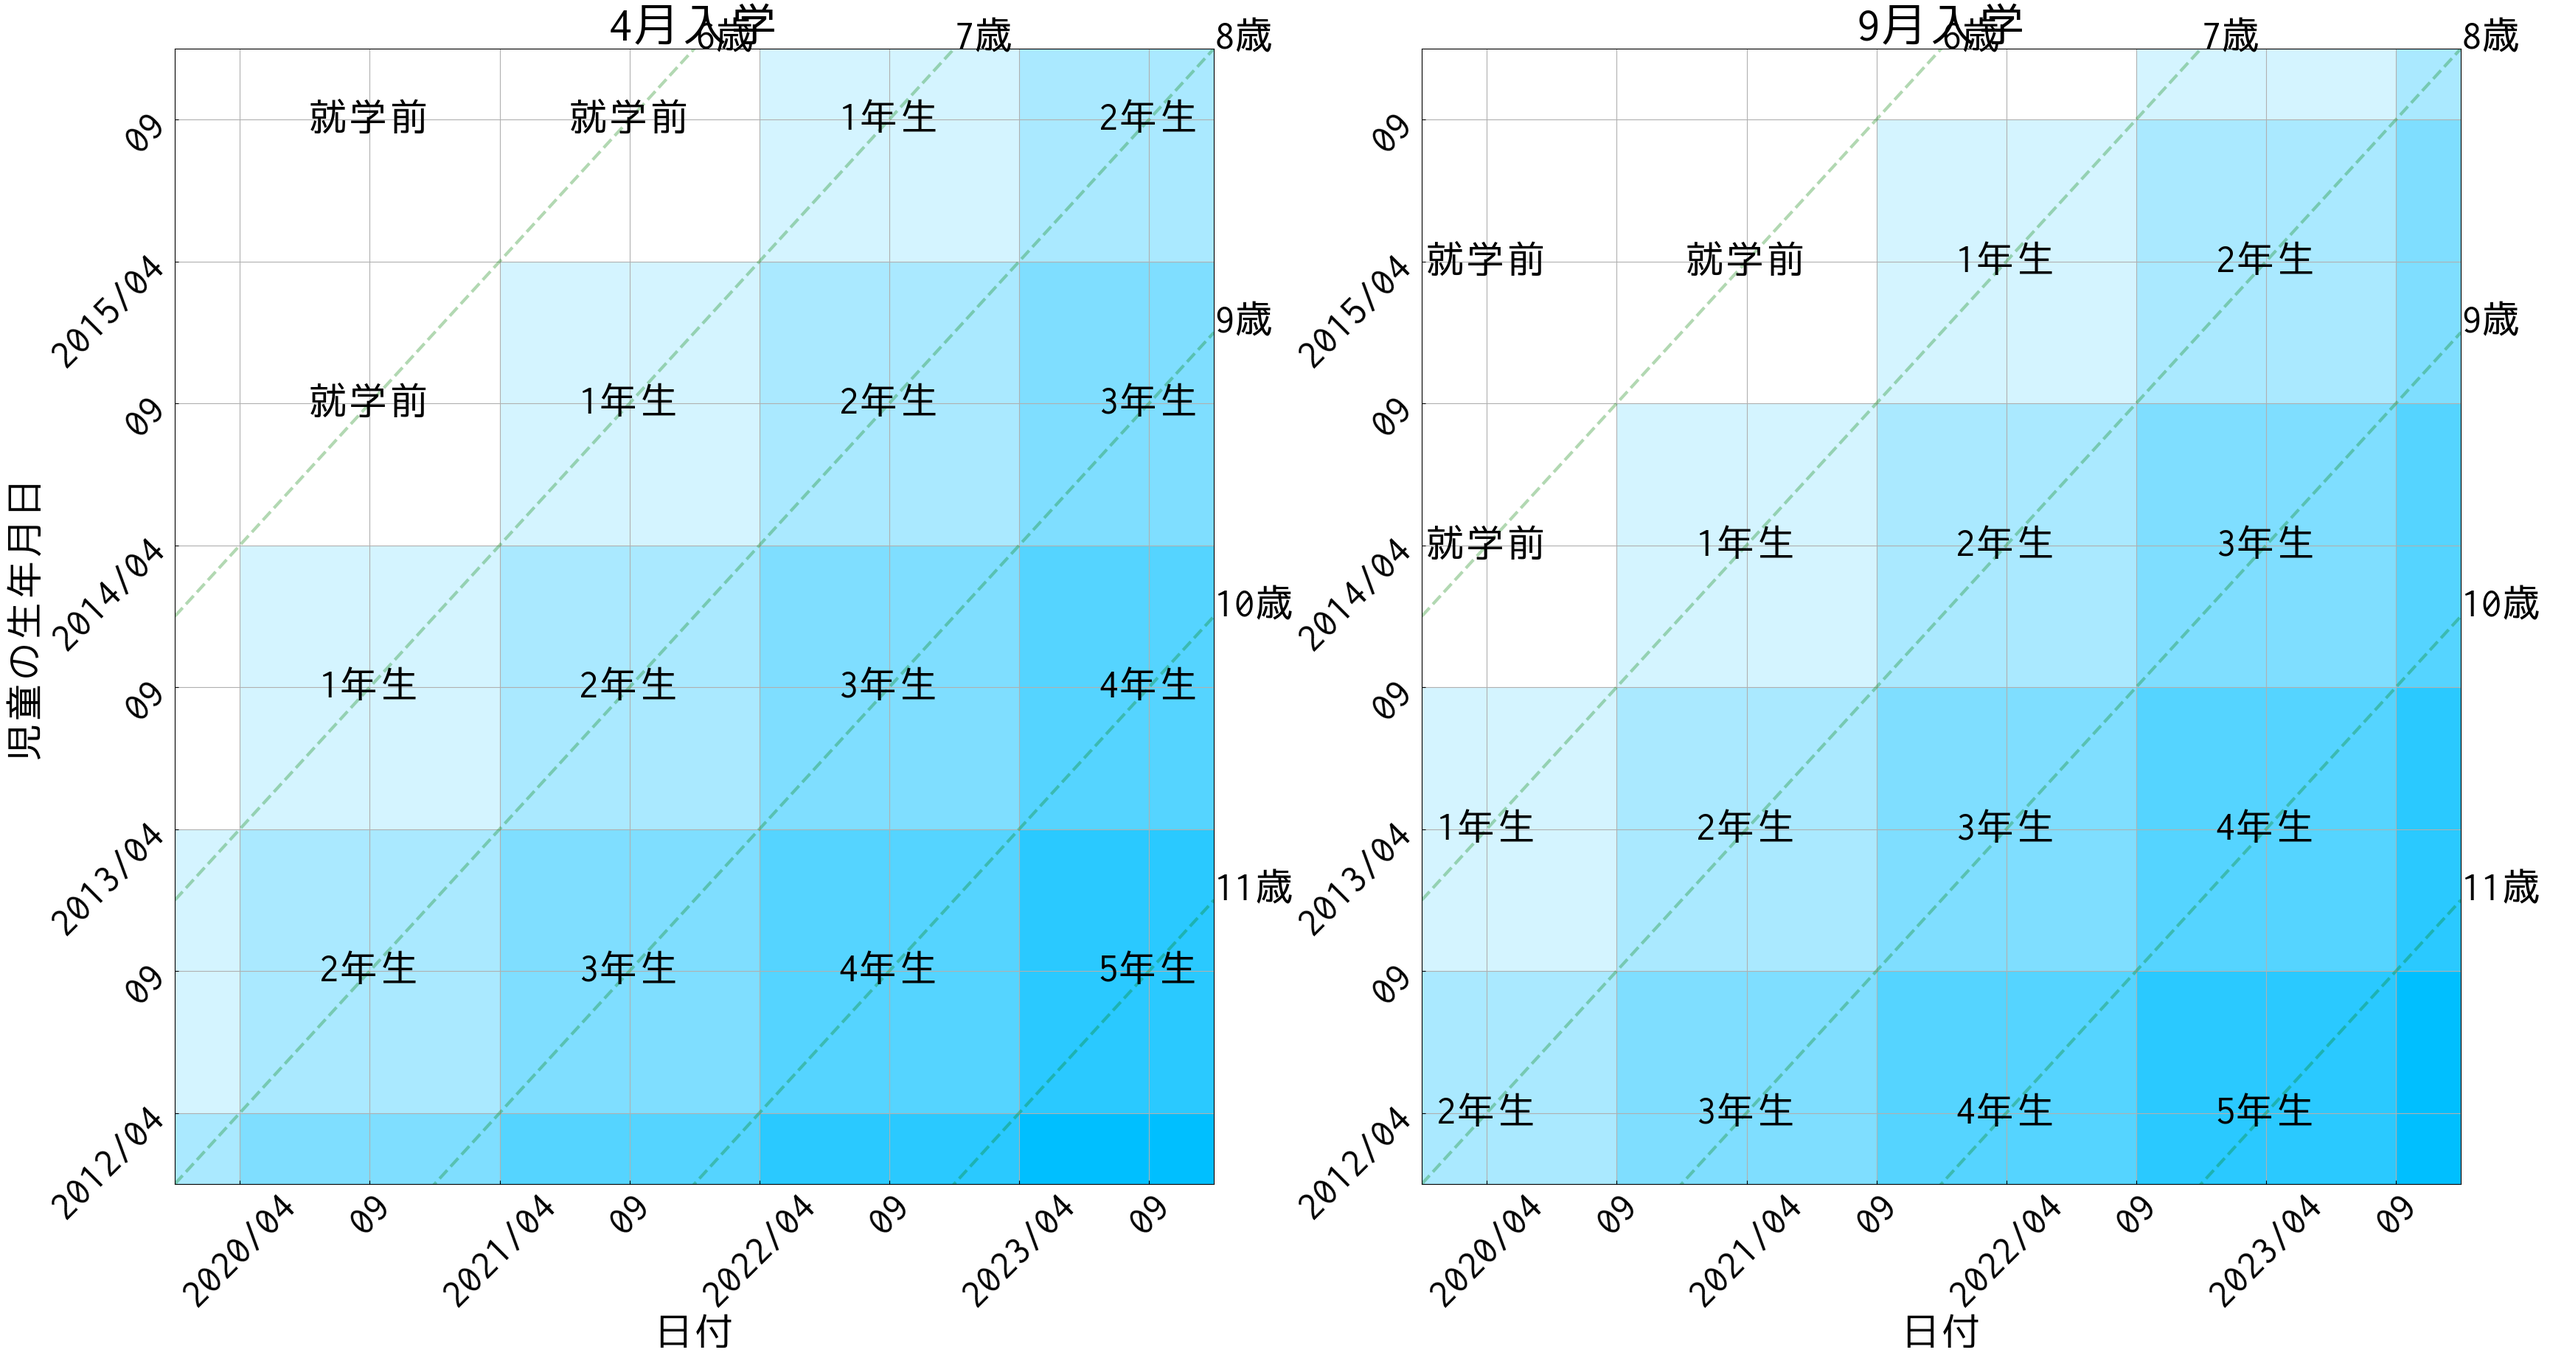
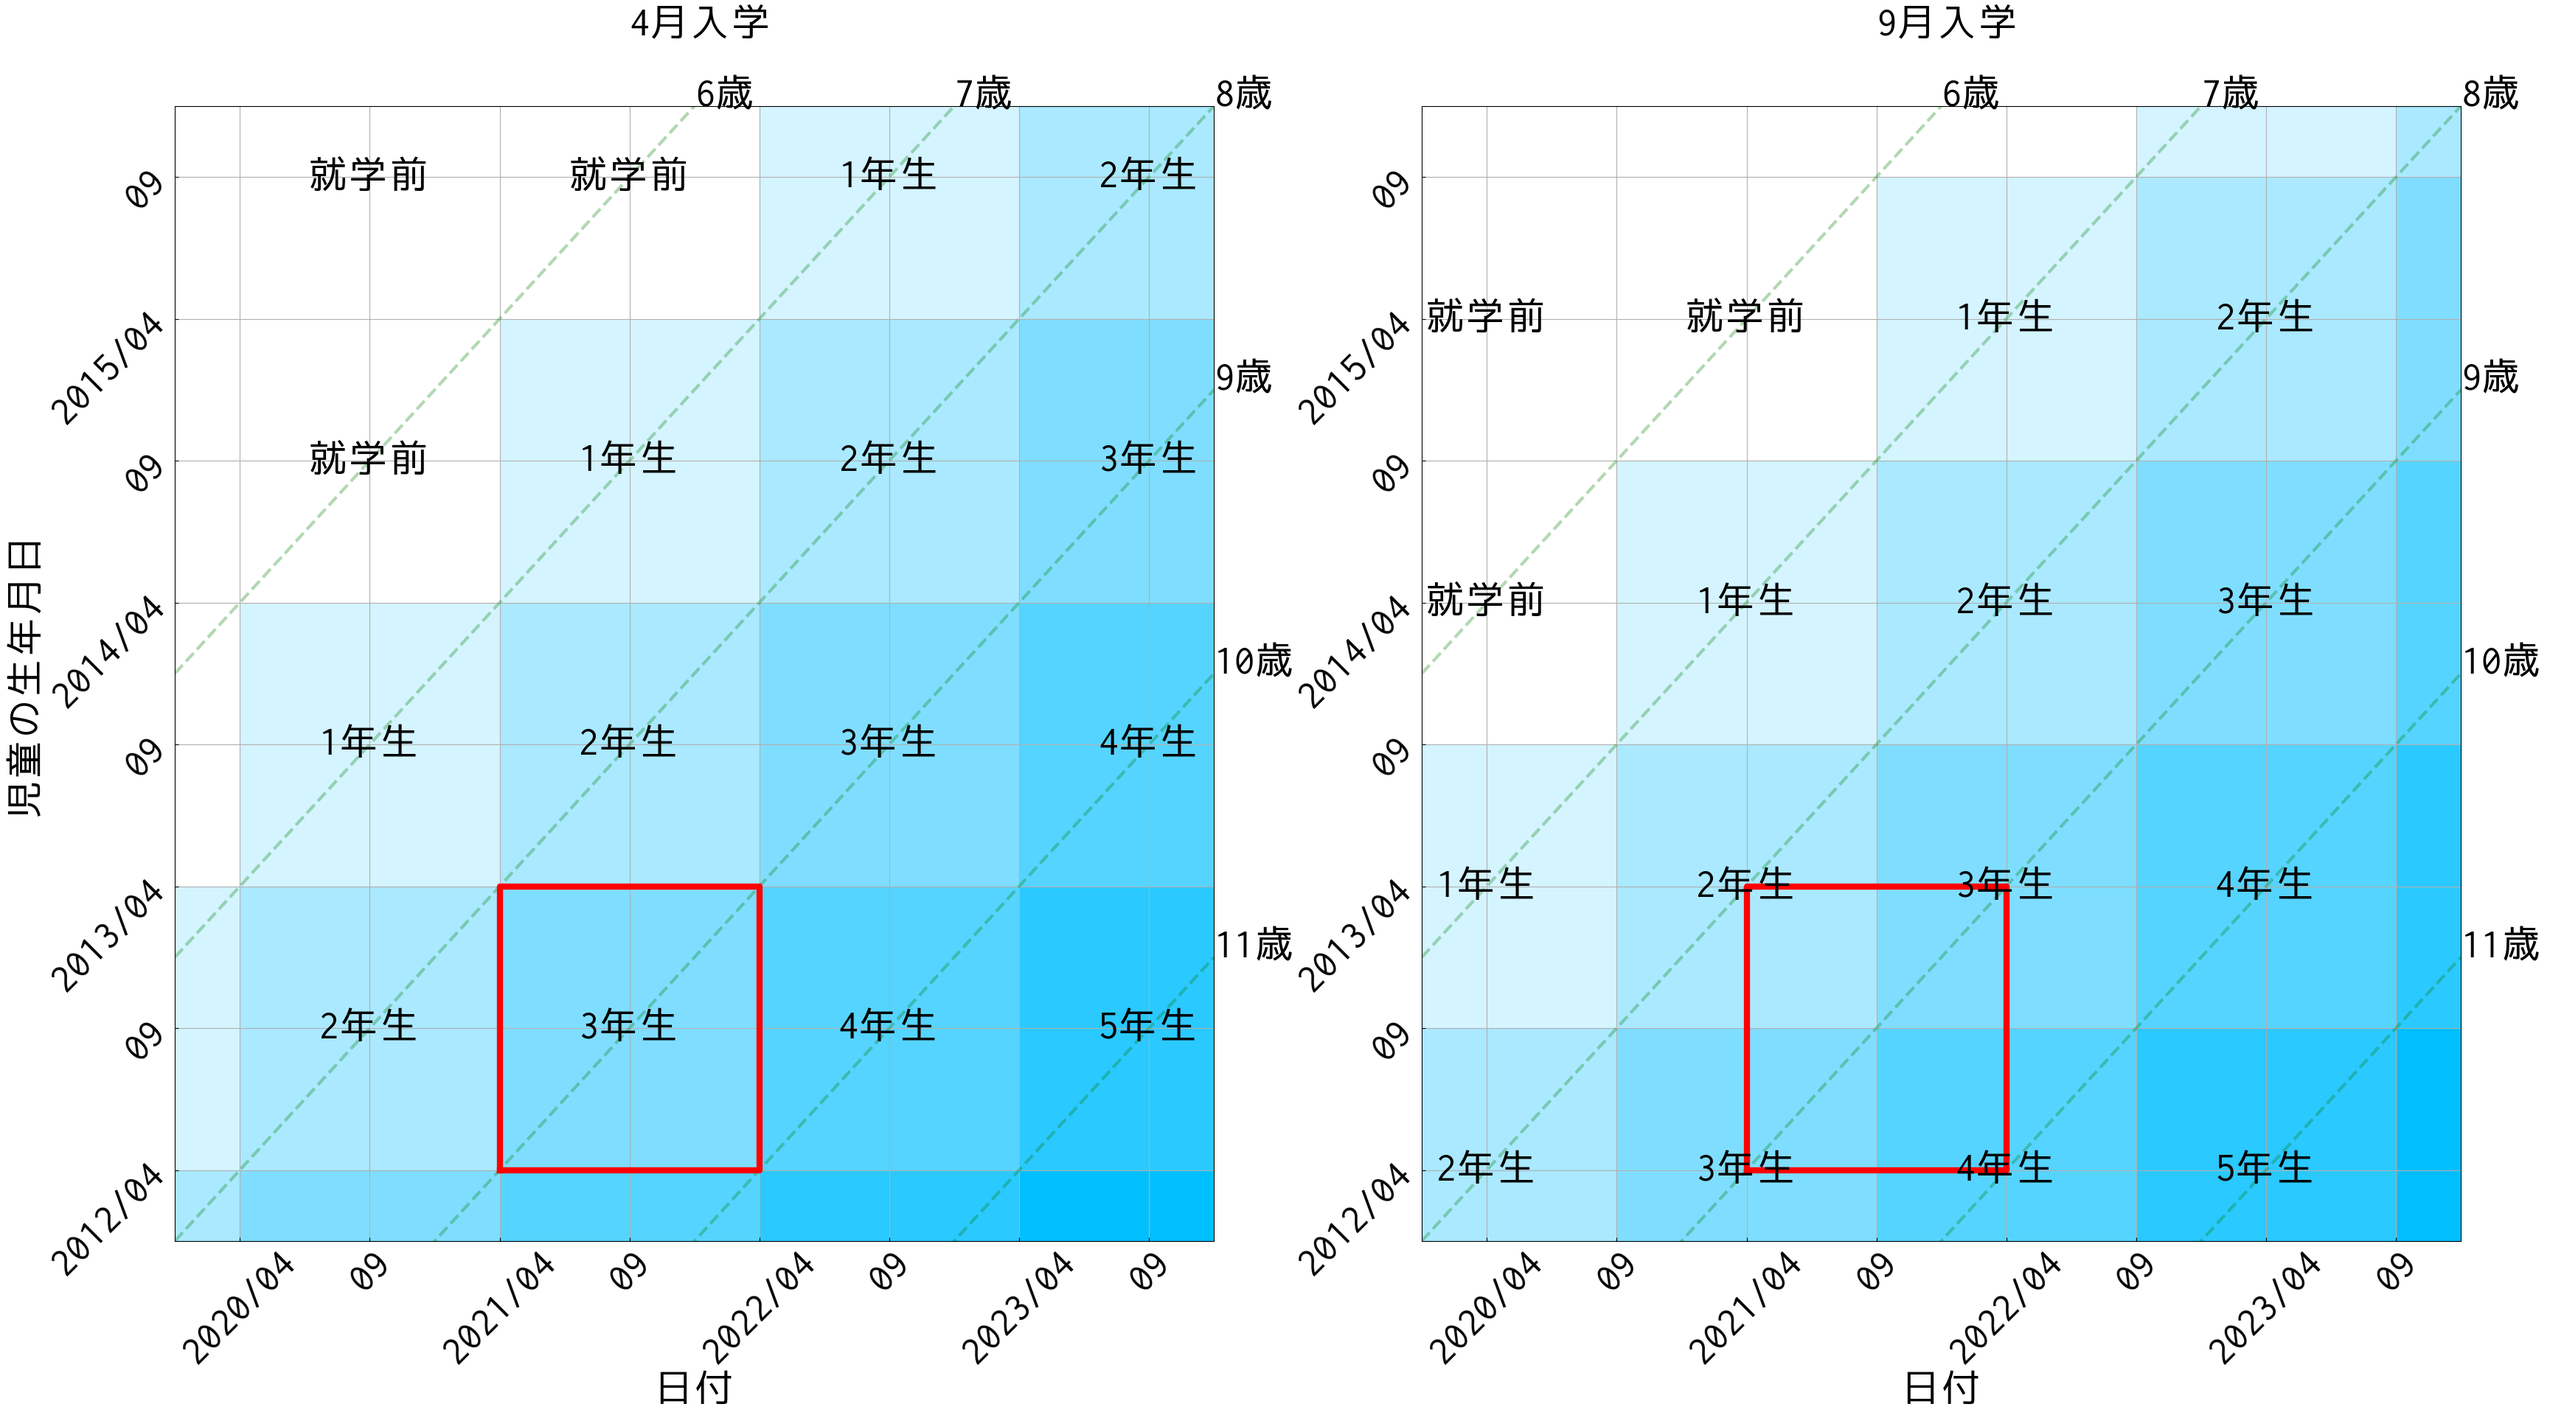
rebuilding site 2020年 4月29日 水曜日 11時30分58秒 JST

diff --git a/post/00_school-september/index.html b/post/00_school-september/index.html
@@ -113,54 +113,113 @@ layui.use('element', function(){
 <li>コロナによる教育カリキュラムの遅れを，半年程度まで取り戻すことができる．</li>
 <li>海外の教育スケジュールと一致する．留学生の往来が容易になる．</li>
 </ul>
-<p>しかし，コロナの影響があるからといって，単純に9月入学に変更する案にはデメリットがあります．</p>
+<p>しかし，コロナの影響があるからといって，単純に9月入学に変更する案には，当然，デメリットもあります．</p>
 <ul>
 <li>世の中の，4月生まれを前提とした情報システムの改修コスト等</li>
-<li>教育カリキュラムの半年遅れの常態化</li>
+<li><a href="https://news.yahoo.co.jp/byline/senoomasatoshi/20200428-00175660/">９月入学・新学期は進めるべきではない　―　子どもたちと社会への影響を重く見るべき４つの理由</a>
+<ol>
+<li>在校期間の延長による児童生徒への負担</li>
+<li>教育コストの増加</li>
+<li>半年間，新卒の労働力が減少する</li>
+<li>政治リソースの消費</li>
+</ol>
+</li>
+<li><strong>教育カリキュラムの半年遅れの常態化</strong></li>
 </ul>
-<p>この記事では，2つ目のデメリットを説明したいと思います．</p>
-<h1 id="生年月日と4月入学9月入学">生年月日と「4月入学」「9月入学」</h1>
+<p>この記事では，3つ目のデメリットを説明したいと思います．</p>
+<h1 id="生年月日と通常想定される9月入学">生年月日と「通常想定される」9月入学</h1>
 <p>そもそも，一般に，9月入学とはどのような制度で，4月入学とはどう違うのでしょうか．
-一般に，「9月入学」と言った場合，下記の２つが想定されます．</p>
+通常，「9月入学変更」と言った場合，下記の２つを同時に変更することが想定されます．</p>
 <ol>
 <li>入学・進級のタイミングについて，現在の「4月」から「9月」に変更する</li>
-<li>一つの学年を構成する児童について，現在の「4月~3月生まれ」から「9月~8月生まれ」に変更する．</li>
+<li><strong>一つの学年を構成する児童について，現在の「4月~3月生まれ」から「9月~8月生まれ」に変更する．</strong></li>
 </ol>
-<p>下のような図を書くとわかりやすいです．
+<p>2.が重要です．
+下のような図を書くとわかりやすいです．
 図は，何年何月生まれの児童が（縦軸）いつ（横軸）どの小学校の学年になるかを例示したものです．</p>
 <p><img src="./fig1.png" alt="4月入学と9月入学の比較"></p>
-<p>横軸は日付，縦軸は児童の生年月日です．
-例えば，4月入学（左）の場合，縦軸の値が &ldquo;2013/04&rdquo; の点を右にたどることで，2013年4月生まれの児童は，2020年4月に入学し，2021年4月に2年生に，2022年4月に3年生になることがわかります．
-また，横軸の値が &ldquo;2020/04&rdquo; の点を上にたどれば，2020年4月に2年生になるのは，2012年4月から2013年3月生まれの児童であることがわかります．</p>
-<p>これを9月入学（右）にした場合は，入学や進級のタイミングが半年ずれることがわかります（厳密には4月と9月の間は5ヶ月ですが，ここでは半年で単純化しています）．
-一方で，一つの学年を構成する児童も変化します．
-したがって，<strong>例えば「全員が6歳0ヶ月~7歳0ヶ月で一年生になる」という点は現在の4月入学と変わりません．</strong></p>
+<p>横軸は日付，縦軸は児童の生年月日です．</p>
+<!-- raw HTML omitted -->
+<!-- raw HTML omitted -->
+<p>簡単のために，赤枠に注目してみましょう．
+赤枠は，左右の図共通で，「2012年4月~2013年3月生まれの児童が，2021年4月~2022年3月を何年生で過ごすか」を表しています．
+4月入学（左）の場合，この期間，全員が3年生です．
+一方，9月入学（右）の場合，誕生日が早い半分の（9月までに生まれた）児童は<strong>学年が半年だけ上がり（3~4年生）</strong>，誕生日が遅い半分（9月以降に生まれた）児童は学年が半年だけ下がります（2~3年生）．</p>
+<p>一方で，「1年生は平均7.0歳」「2年生は平均8.0歳」というように，学年と平均年齢の関係は，現在と変わりがありません．
+この点は重要で，例えば
+<strong>「全員が，平均で8.0歳のとき九九を習う」</strong>
+ということは，
+4月入学でも9月入学でも変わりません．</p>
+<!-- raw HTML omitted -->
+<!-- raw HTML omitted -->
+<p>以上から，「通常想定される」9月入学案は，以下の性質があります．</p>
+<ul>
+<li>誕生日によって，学年が半年上がる児童と下がる児童がいる</li>
+<li><strong>各学年の平均年齢は変わらない</strong></li>
+</ul>
 <h1 id="コロナで検討されている9月入学">コロナで検討されている「9月入学」</h1>
-<p>しかし，現在検討されている「9月入学」案は，この図とは異なるものです．つまり，</p>
+<p>しかし，コロナ対策で検討されている「9月入学」案は，上とは異なるものです．</p>
 <ol>
 <li>入学・進級のタイミングについて，現在の「4月」から「9月」に変更する</li>
 <li><strong>一つの学年を構成する児童について，現在の「4月~3月生まれ」のままに据え置く</strong></li>
 </ol>
 <p>2.がポイントです．
 現在検討されている9月入学の主旨は，「休校によるカリキュラムの遅れに対し，スケジュールを半年後ろ倒しすることで対応する」というものです．
-したがって，学年の構成を変更することは想定されていないと考えられます．
-図の上では，全体的に右にずれて表現されます．</p>
+したがって，学年の構成を変更することは想定されていないと考えられます．</p>
 <p><img src="./fig2.png" alt="コロナで検討されている9月入学"></p>
-<p>グリッド（学年）と斜め線（年齢）の関係が変わってしまいましたね．つまり，各学年を構成する児童の年齢が変化します．
-例えば，上で見た「現行の4月入学」「通常の9月入学」の場合は，どちらも一年生に入学するとき，児童の年齢は「6歳0ヶ月~7歳0ヶ月」でした．
-一方で，今回の「コロナ対策の9月入学」の場合は，一年生に入学するとき，児童の年齢は「6歳6ヶ月~7歳6ヶ月」になります．
-新入生が，これまでより半年だけ年寄りになるということです．</p>
+<p>上でやったのと同じように，赤枠内を比較してみましょう．
+上とは異なり，
+<strong>「生年月日によらず，全員の学年が半年だけ下がる（2~3年生）」</strong>
+ことがわかります．</p>
+<p>また，グリッド（学年）と斜め線（年齢）の関係が変わってしまいます．
+つまり，各学年を構成する児童の年齢が変化します．
+例えば，今回の「コロナ対策の9月入学」の場合は，一年生に入学するとき，児童の年齢は「6歳6ヶ月~7歳6ヶ月」になります．
+<strong>新入生が，これまでより半年だけ年寄りになるということです．</strong></p>
+<ul>
+<li>誕生日によらず，全員の学年が半年だけ下がる</li>
+<li><strong>各学年の平均年齢は，0.5歳上昇する</strong></li>
+</ul>
 <h1 id="半年の差は無視してよいのか">半年の差は無視してよいのか？</h1>
 <p>以上をまとめると，</p>
 <ul>
 <li>4月入学（変更前）：小学1年生は平均7.0歳，小学2年生は平均8.0歳，…，高校3年生は平均18.0歳</li>
-<li>9月入学（変更後）：小学1年生は平均7.5歳，小学2年生は平均8.5歳，…，高校3年生は平均18.5歳</li>
+<li>コロナ対策の9月入学（変更後）：小学1年生は平均7.5歳，小学2年生は平均8.5歳，…，高校3年生は平均18.5歳</li>
 </ul>
 <p>となります．
-9月入学に移行すると，日本全体で，九九を習うのも，微積分を習うのも，英語を習うのも，平均の上では半年遅くなるわけです．
-この影響をどう考えるか，は一つの論点であるべきです．
-たかが半年とも言えますが，若い時期の半年の影響の大きさは，よくわからないと言っていいでしょう．
-コロナの関係ない世代まで，教育を半年遅らせる必要があるのか，疑問です．</p>
+<strong>このまま9月入学に移行すると，日本全体で，九九を習うのも，微積分を習うのも，英語を習うのも，平均で，半年遅くなるわけです．</strong>
+当然，現在の在校生については，これはやむを得ないと思います．
+しかし，<strong>今後の新入生まで，同じようにカリキュラムを遅らせると，教育水準の低下が懸念されます．</strong>
+たかが半年とも言えますが，若い脳に対し，半年の遅れがどの程度影響するかは，よくわからないと言っていいでしょう．</p>
+<p>また，他にも，例えば「3年生の平均年齢・体重」といった統計は，今後そのまま使えなくなる，といった影響も考えられます．</p>
+<p>これらの影響をどう考えるか，は一つの論点であるべきです．</p>
+<h1 id="次の新入生を何年何月生まれの児童にするか">次の新入生を，何年何月生まれの児童にするか？</h1>
+<p>では，学年ごとの平均年齢を変えないための方法はあるでしょうか．
+単純な解決方法は，上の2つの9月入学制度のハイブリッドでしょう．</p>
+<ul>
+<li>現在の在校生は，「コロナ対策版の」9月入学制度にする</li>
+<li>将来の新入生は，「通常想定される」9月入学制度にする</li>
+</ul>
+<p>こうすることで，現在の教育カリキュラム遅れに対処すると同時に，将来的には学年の平均年齢を現在の状態に戻すことができます．
+しかし，この場合も，状況は複雑で，問題は多数生じそうです．</p>
+<ul>
+<li>2020年9月の新入生は，
+<strong>「2013年4月~2014年9月生まれの児童」</strong>
+にする必要がある．つまり，対象の生年月日期間が，この歳だけ通常の1.5倍になる．この学年だけ，<strong>生徒数が通常の1.5倍になる．</strong></li>
+<li>特に，「2014年4月~2014年9月生まれの児童」の入学は，現在の予定（2021年4月）から，半年早まり，2020年9月（<strong>あと数ヶ月後！</strong>）になる．</li>
+</ul>
+<p>私は教育現場を知りませんが，これはこれで様々なと歪を生むのではないでしょうか．</p>
+<h1 id="まとめ">まとめ</h1>
+<ul>
+<li>コロナ対策で単純に9月入学を採用すると，各学年の年齢が0.5歳上昇する
+<ul>
+<li>教育カリキュラムが半年遅れる</li>
+<li>身長体重などの統計が使用できなくなる</li>
+</ul>
+</li>
+<li>上記の問題に対処するためには，次の小学校の新入生の人数を1.5倍にする必要がある</li>
+</ul>
+<p>以上には，単純に入学・進級・卒業のタイミングを変更するための（膨大であろう）事務コストとは別の観点であることが重要です．
+個人の感想ですが，「コロナを機に，政治が音頭を取れば実現できる」なんて簡単なものではなように感じます．</p>
 </div>
             </div>
         </div>
